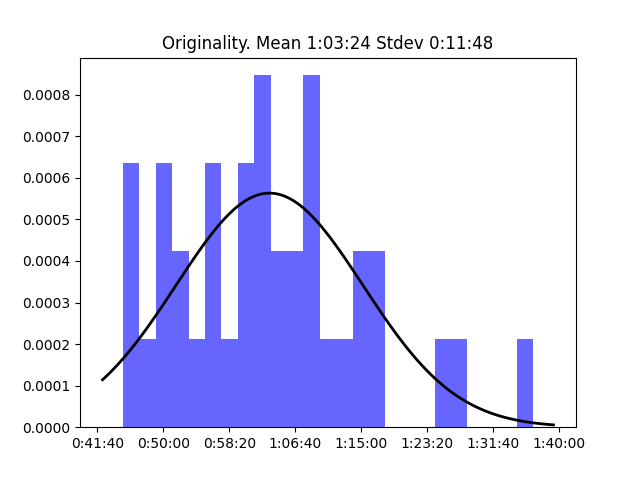
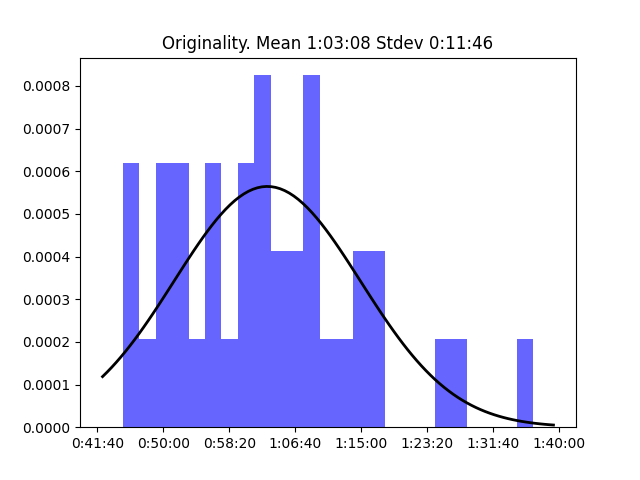
add talk show

diff --git a/main.py b/main.py
@@ -34,10 +34,13 @@ all_networks = [
     PodcastNetwork('Relay FM', get_relay_data()),
     PodcastNetwork('ATP', ['https://cdn.atp.fm/rss/public']),
     PodcastNetwork('Incomparable', get_incomperable_data()),
+    PodcastNetwork('The Talk Show', ['https://daringfireball.net/thetalkshow/rss']),
 ]
 
 for network in all_networks:
+    print("Processing network", network.name)
     for show in network.show_durations:
+        print("  Show:", show.title())
         chart_show(show)
 
 update_readme(all_networks)

diff --git a/feeds.py b/feeds.py
@@ -104,7 +104,12 @@ class FeedInfos(list):
 def get_show_episode_durations(feed_url):
     feed_infos = FeedInfos()
     feed = feedparser.parse(feed_url)
-    title = feed.channel.title
+    try:
+        title = feed.channel.title
+    except Exception as e:
+        print("Unable to get feed title", feed_url, feed.channel)
+        raise e
+    
     if title in EPISODE_EXCLUDE_LIST:
         return None
 

diff --git a/networks/THE TALK SHOW.md b/networks/THE TALK SHOW.md
@@ -1,0 +1,15 @@
+# The Talk Show
+
+## Table of Contents:
+- [The Talk Show With John Gruber](#The-Talk-Show-With-John-Gruber)  
+
+**Network's longest episode:** The Talk Show With John Gruber - 215: ‘The “Press Real Hard” Era’ With Marco Arment (3:53:44)
+
+**Network's shortest episode:** The Talk Show With John Gruber - 200: ‘Episode CC’ With Craig Federighi (0:30:10)
+
+### The Talk Show With John Gruber
+
+**Longest episode:** 215: ‘The “Press Real Hard” Era’ With Marco Arment (3:53:44)  
+**Shortest episode:** 200: ‘Episode CC’ With Craig Federighi (0:30:10)  
+
+![](../images/The%20Talk%20Show%20With%20John%20Gruber.png)

diff --git a/README.md b/README.md
@@ -1,13 +1,9 @@
 # Podcast Network Stats
 
-*Last updated on:* 2023-01-01 02:06
+*Last updated on:* 2025-08-25 08:18
 
 This displays the normal distribution for each show on the network. Data will be updated daily at midnight.
 
 Visit each individual network's pages for show stats:  
 
-- [Relay FM](networks/RELAY%20FM.md)
-
-- [ATP](networks/ATP.md)
-
-- [Incomparable](networks/INCOMPARABLE.md)
+- [The Talk Show](networks/THE%20TALK%20SHOW.md)
